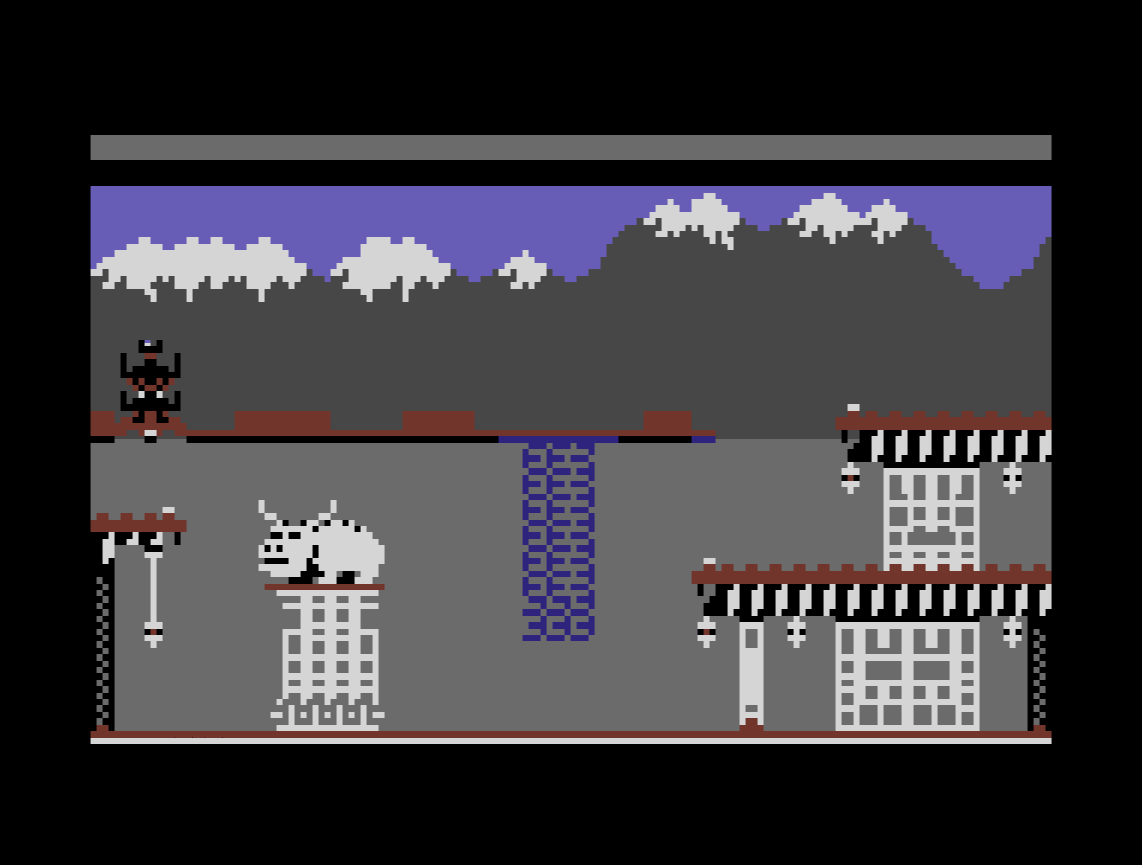
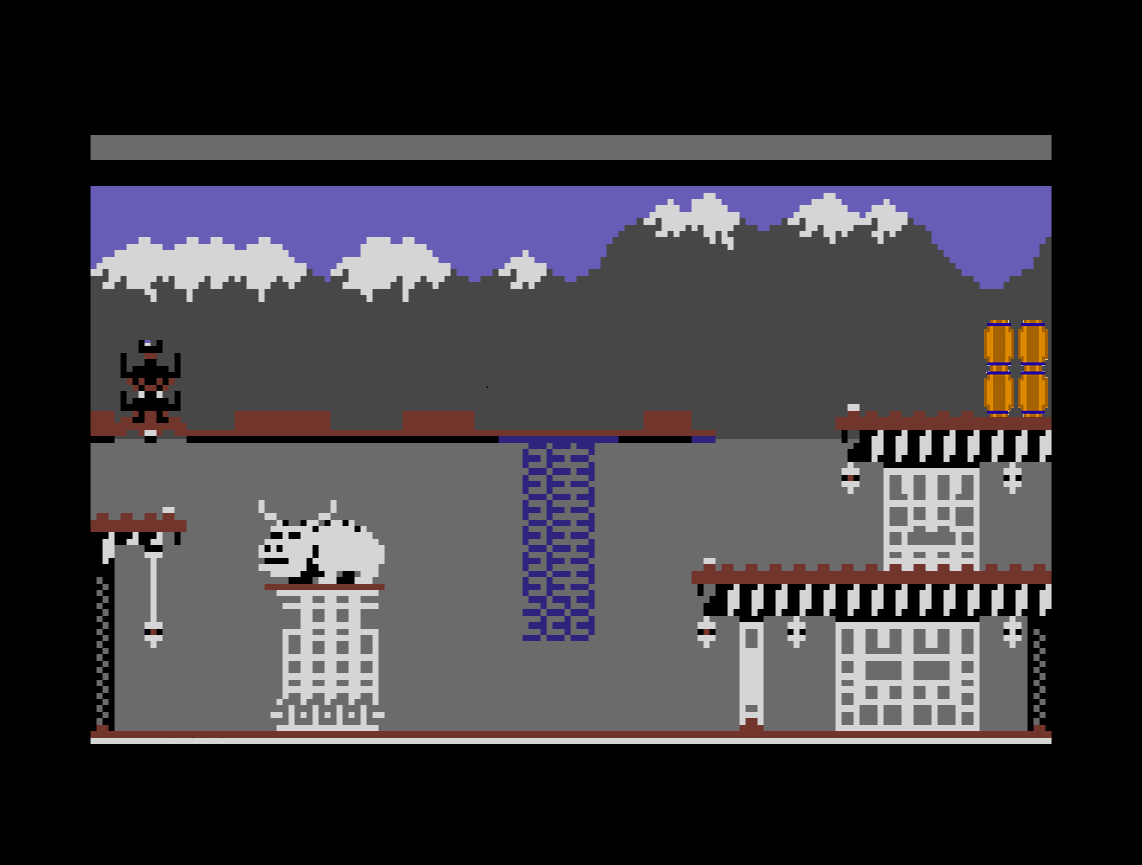
saboteur3

Changed region(s): [[0.8581, 0.3746, 0.9194, 0.4994]]

diff --git a/games-anims/saboteur-karateka/sabkar.py b/games-anims/saboteur-karateka/sabkar.py
@@ -8,7 +8,7 @@ from src.constants import Constants
 from src.sprite import Sprite
 from src.saboteur import Saboteur
 from src.karateka import Karateka
-from src.factory import create_saboteur, create_karateka
+from src.factory import create_saboteur, create_karateka, create_kong
 
 class SaboteurKarateka():
 
@@ -17,7 +17,7 @@ class SaboteurKarateka():
         self.walking = False        
         self.running = True
         self.grapher = Grapher()        
-        self.sprites = [create_saboteur(), create_karateka()]
+        self.sprites = [create_saboteur(), create_karateka(), create_kong()]
 
 
     def handle_keyboard(self):

diff --git a/games-anims/saboteur-karateka/src/donkeykong.py b/games-anims/saboteur-karateka/src/donkeykong.py
@@ -1,0 +1,13 @@
+from src.sprite import Sprite
+
+class DonkeyKong(Sprite):
+    
+    def __init__(self):
+        x = 920
+        y = 365
+        super().__init__(x, y, "donkey kong")
+        self.walk_phase = 'w2'
+        self.path = "src/resources/dkw2.png"
+    
+    def get_sprite_path(self):
+        return "src/resources/dk" + self.walk_phase + ".png"

diff --git a/games-anims/saboteur-karateka/src/factory.py b/games-anims/saboteur-karateka/src/factory.py
@@ -1,5 +1,6 @@
 from src.saboteur import Saboteur
 from src.karateka import Karateka
+from src.donkeykong import DonkeyKong
 
 def create_saboteur():
     return Saboteur(200, 700)
@@ -7,3 +8,7 @@ def create_saboteur():
 
 def create_karateka():
     return Karateka(300, 700)
+
+
+def create_kong():
+    return DonkeyKong()
